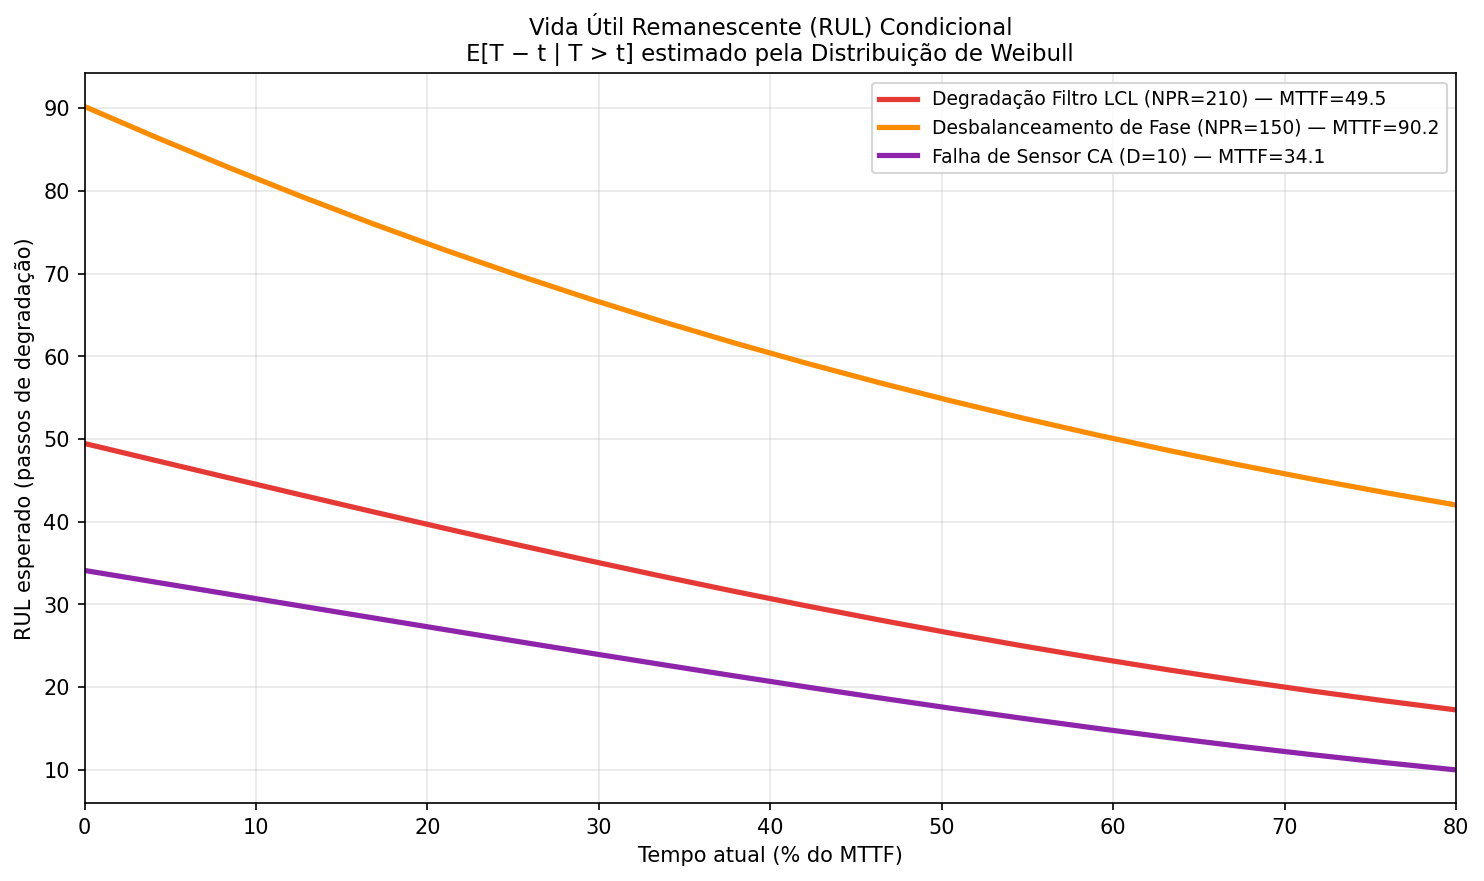
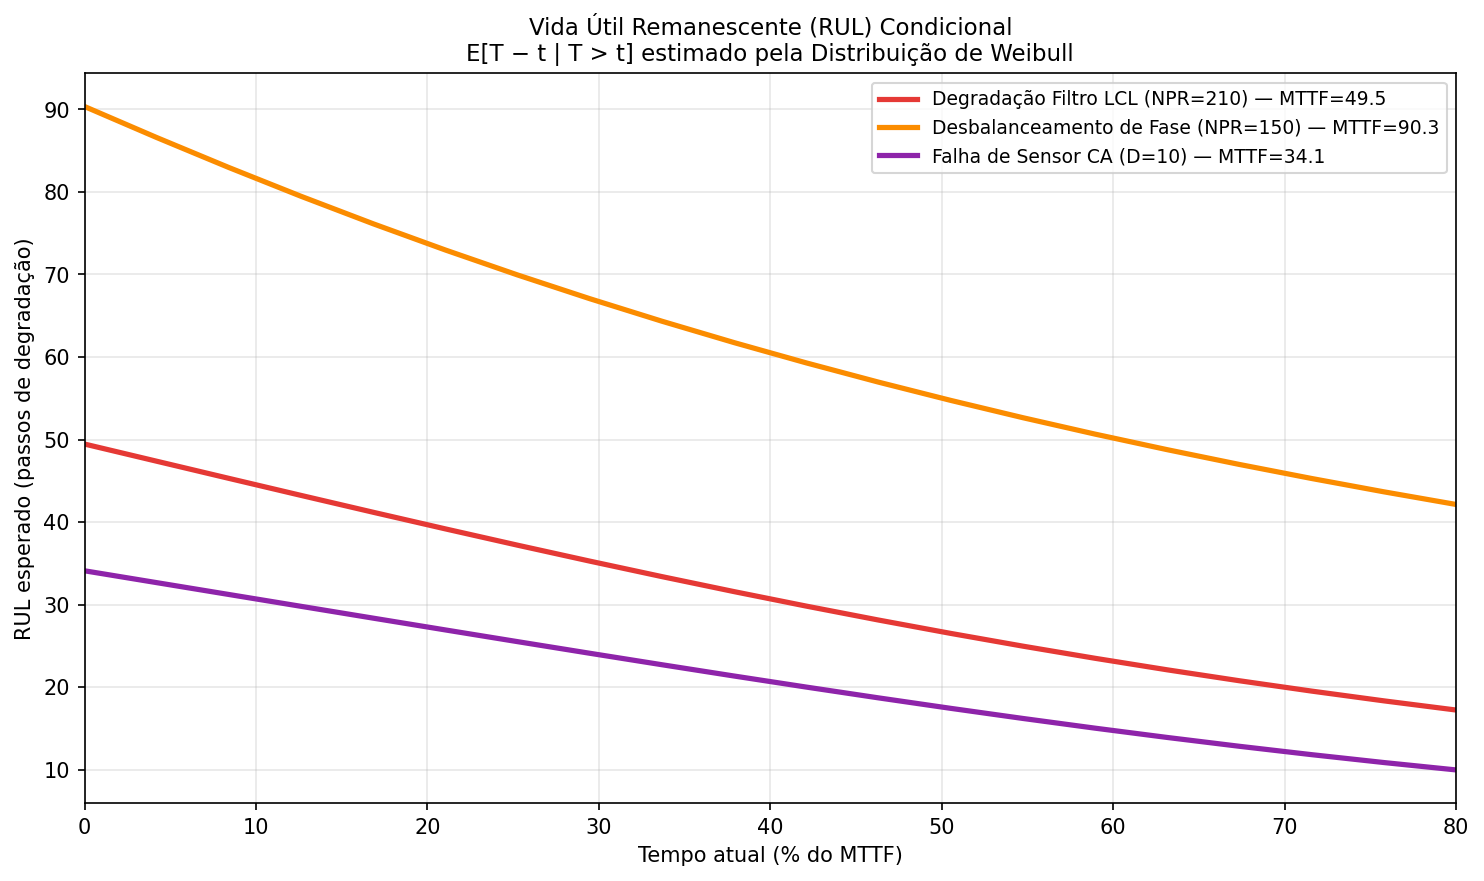
feat(ml): avaliacao em regime raro + ressalva honesta do Weibull (RUL)
(4/5 e 5/5 dos ajustes metodologicos)

Regime RARO — falhas CA sao eventos raros; teste 50/50 infla precision/F1.
Reprojeta precision/F1 para prevalencia realista (5%) por Bayes no ponto de
operacao (AUC/recall/specificity independem da prevalencia):
- validacao.py (pipeline AE): precision_raro/f1_raro por falha x severidade +
  nota no __meta__. Aqui FPR~0 (limiar p99) -> precisao se mantem (honesto).
- _metricas_anomalia (protocolos por artigo): onde FPR>0, a precisao COLAPSA
  no regime raro — Z-score 0.67->0.10, IForest 0.56->0.06, AE-LSTM 0.55->0.06.
  Esse e o quadro realista; AUC segue a metrica comparavel.

Weibull/RUL — reposicionado como ILUSTRACAO metodologica:
- __meta__ evidence E2: RUL duplamente sintetico (TTF de trajetorias SIMULADAS
  cruzando o limiar do AE; falha tambem sintetica). Nao e vida util de campo.
- ajuste_weibull_adequado por falha via KS (alpha=0.05): hoje KS REJEITA as 3
  (ks_pval<=0.0014) -> ressalva explicita de que MTTF/B10 sao indicativos.

Teste do regime raro (colapso com FPR>0; estavel com FPR=0). Suite 141/141.
Artefatos do AE e do nucleo (francisti/ibrahim/ahirwar) regenerados.

Changed region(s): [[0.031, 0.4904, 0.062, 0.521], [0.031, 0.2145, 0.062, 0.2452], [0.031, 0.1226, 0.062, 0.1532]]

diff --git a/src/ml/validacao.py b/src/ml/validacao.py
@@ -102,6 +102,12 @@ SEVS_VALIDACAO = [0.30, 0.50, 1.00]
 N_JANELAS_SAUDAVEL = 50
 N_JANELAS_FALHA    = 50
 
+# Prevalência REALISTA de falha em operação (falhas CA são eventos raros).
+# O teste é balanceado (50/50) para estimar TPR/FPR de forma estável, mas
+# precision/F1 a 50% NÃO refletem o campo. Reportamos também precision/F1 na
+# prevalência rara abaixo — recall (TPR), specificity e AUC independem dela.
+PREVALENCIA_RARA = 0.05
+
 
 # ============================================================
 # COLETA DE ERROS (saudável e falhas)
@@ -173,6 +179,19 @@ def metricas_no_limiar(erros_neg: np.ndarray,
 
     cm = confusion_matrix(y_true, y_pred)
 
+    # — Ponto de operação (limiar congelado): TPR/FPR independem da prevalência —
+    tpr_op = float((erros_pos > limiar).mean())   # = recall
+    fpr_op = float((erros_neg > limiar).mean())   # = 1 - specificity
+
+    # — Precision/F1 reprojetados para a prevalência RARA (operação real) —
+    # Bayes no ponto de operação: prec = π·TPR / (π·TPR + (1−π)·FPR).
+    # AUC e recall NÃO mudam; só precision/F1 (que dependem da base rate).
+    pi = PREVALENCIA_RARA
+    denom = pi * tpr_op + (1.0 - pi) * fpr_op
+    precision_raro = float(pi * tpr_op / denom) if denom > 0 else 0.0
+    f1_raro = (float(2 * precision_raro * tpr_op / (precision_raro + tpr_op))
+               if (precision_raro + tpr_op) > 0 else 0.0)
+
     return {
         "precision"  : float(precision_score(y_true, y_pred, zero_division=0)),
         "recall"     : float(recall_score(y_true, y_pred, zero_division=0)),
@@ -180,6 +199,12 @@ def metricas_no_limiar(erros_neg: np.ndarray,
         "accuracy"   : float(accuracy_score(y_true, y_pred)),
         "auc_roc"    : float(roc_auc),
         "auc_pr"     : float(pr_auc),
+        # Regime raro (prevalência realista de falha CA) — precision/F1 honestos:
+        "prevalencia_raro" : pi,
+        "tpr_op"           : tpr_op,
+        "fpr_op"           : fpr_op,
+        "precision_raro"   : precision_raro,
+        "f1_raro"          : f1_raro,
         "confusion"  : cm.tolist(),
         "fpr"        : fpr.tolist(),
         "tpr"        : tpr.tolist(),
@@ -446,6 +471,9 @@ def executar_validacao() -> bool:
                 "precision": res["precision"],
                 "accuracy" : res["accuracy"],
                 "auc_pr"   : res["auc_pr"],
+                # regime raro (prevalência realista)
+                "precision_raro": res["precision_raro"],
+                "f1_raro"       : res["f1_raro"],
             })
 
     # ── 5. Visualizações ─────────────────────────────────────
@@ -475,6 +503,16 @@ def executar_validacao() -> bool:
             "threshold_method": info_limiar.get("threshold_method", "p99"),
             "threshold_source": "congelado_do_limiar_json",
             "limiar_operacional": float(limiar),
+            "prevalencia_teste": 0.5,
+            "prevalencia_raro": PREVALENCIA_RARA,
+            "nota_regime_raro": (
+                "O teste é balanceado (50% falha) para estimar TPR/FPR com "
+                "estabilidade, mas falhas CA são RARAS em operação. Por isso "
+                "reportamos também precision_raro/f1_raro reprojetados para "
+                f"prevalência de {PREVALENCIA_RARA:.0%} (regra de Bayes no ponto "
+                "de operação). AUC, recall (TPR) e specificity independem da "
+                "prevalência; só precision/F1 mudam."
+            ),
         },
     }
     for chave, res in resultados.items():
@@ -489,13 +527,15 @@ def executar_validacao() -> bool:
     # ── 7. Resumo final ──────────────────────────────────────
     _log(f"\n{'='*60}")
     _log(f"  VALIDAÇÃO CONCLUÍDA!")
-    _log(f"\n  {'Falha':<30} {'Sev':>5} {'F1':>7} {'AUC':>7} {'Recall':>8}")
-    _log(f"  {'-'*60}")
+    _log(f"\n  {'Falha':<30} {'Sev':>5} {'AUC':>7} {'Recall':>8} "
+          f"{'F1@50%':>8} {'F1@5%':>8}")
+    _log(f"  {'-'*72}")
     for row in linhas_tabela:
-        npm_str = f"NPR={row['npr']}" if row["npr"] else "  D=10"
         _log(f"  {row['falha']:<30} {row['severidade']:>5.2f} "
-              f"{row['f1']:>7.3f} {row['auc_roc']:>7.3f} "
-              f"{row['recall']:>8.3f}")
+              f"{row['auc_roc']:>7.3f} {row['recall']:>8.3f} "
+              f"{row['f1']:>8.3f} {row['f1_raro']:>8.3f}")
+    _log("\n  AUC/Recall independem da prevalência; F1@50% é o teste balanceado "
+         f"e F1@{PREVALENCIA_RARA:.0%} reflete a raridade real das falhas CA.")
 
     # Melhor AUC geral
     melhor = max(linhas_tabela, key=lambda x: x["auc_roc"])

diff --git a/src/ml/rul_weibull.py b/src/ml/rul_weibull.py
@@ -496,6 +496,20 @@ def executar_rul_weibull() -> bool:
     # ── 6. Salva resultados ──────────────────────────────────
     arq_json = PASTA_AE / "weibull_results.json"
     relatorio = {
+        "__meta__": {
+            "evidence_level": "E2",
+            "evidence_note": (
+                "RUL ILUSTRATIVO — duplamente sintético: (1) os TTF vêm de "
+                "trajetórias de degradação SIMULADAS cruzando o limiar do "
+                "Autoencoder, não de dados run-to-failure reais; (2) a própria "
+                "falha que define o cruzamento é injeção sintética orientada "
+                "pelo FMEA. Demonstra a METODOLOGIA (TTF→Weibull→MTTF/B10/RUL), "
+                "NÃO é estimativa de vida útil de campo (exigiria histórico real "
+                "de falhas). Verificar a adequação do ajuste pelo teste KS abaixo."
+            ),
+            "ttf_origem": "trajetorias_simuladas_cruzando_limiar_AE",
+            "ks_alpha": 0.05,
+        },
         "parametros_simulacao": {
             "n_trajetorias": N_TRAJ,
             "n_steps"      : N_STEPS,
@@ -505,10 +519,18 @@ def executar_rul_weibull() -> bool:
     }
     for falha in FALHAS:
         fid = falha["id"]
+        ks_p = params[fid].get("ks_pval")
+        ajuste_ok = bool(ks_p is not None and ks_p > 0.05)
         relatorio["falhas"][fid] = {
             "nome"  : falha["nome"],
             "npr"   : falha["npr"],
             "weibull": params[fid],
+            "ajuste_weibull_adequado": ajuste_ok,
+            "ressalva_ajuste": (
+                "" if ajuste_ok else
+                "KS rejeita Weibull (p<=0,05): os TTF simulados não seguem bem "
+                "uma Weibull; MTTF/B10 são indicativos, não conclusivos."
+            ),
             "ttfs"  : ttfs_dict[fid].tolist(),
         }
     with open(arq_json, "w", encoding="utf-8") as f:

diff --git a/src/ml/experimentos_artigos.py b/src/ml/experimentos_artigos.py
@@ -1267,14 +1267,36 @@ def _metricas_anomalia(y_true, score, y_pred=None,
     metricas = _metricas_classificacao(y_true_arr, y_pred, y_score=score)
     if metricas.get("matriz_confusao") and len(metricas["matriz_confusao"]) == 2:
         metricas["classes"] = ["Normal", "Anomalia"]
+
+    # Regime RARO: precision/F1 reprojetados p/ a prevalência realista de falha
+    # CA (eventos raros). O teste é ~50/50 para estimar TPR/FPR; precision/F1 a
+    # 50% inflam. Regra de Bayes no ponto de operação: AUC/recall/specificity
+    # NÃO mudam; precision/F1 sim. Revela o custo de FPR>0 em operação real.
+    y_pred_arr = np.asarray(y_pred).astype(int)
+    tp = int(np.sum((y_true_arr == 1) & (y_pred_arr == 1)))
+    fn = int(np.sum((y_true_arr == 1) & (y_pred_arr == 0)))
+    fp = int(np.sum((y_true_arr == 0) & (y_pred_arr == 1)))
+    tn = int(np.sum((y_true_arr == 0) & (y_pred_arr == 0)))
+    tpr_op = tp / (tp + fn) if (tp + fn) else 0.0
+    fpr_op = fp / (fp + tn) if (fp + tn) else 0.0
+    pi = 0.05
+    denom = pi * tpr_op + (1.0 - pi) * fpr_op
+    prec_raro = (pi * tpr_op / denom) if denom > 0 else 0.0
+    f1_raro = (2 * prec_raro * tpr_op / (prec_raro + tpr_op)
+               if (prec_raro + tpr_op) > 0 else 0.0)
+
     metricas.update({
         "limiar_score": thr,
         "ponto_operacao": ponto,
         "threshold_source": threshold_source,
         "metrica_dependente_de_limiar": dependencia,
-        "anomalias_detectadas": int(np.sum(y_pred == 1)),
+        "anomalias_detectadas": int(np.sum(y_pred_arr == 1)),
         "anomalias_reais": int(np.sum(y_true_arr == 1)),
-        "taxa_anomalias_detectadas": float(np.mean(y_pred == 1)),
+        "taxa_anomalias_detectadas": float(np.mean(y_pred_arr == 1)),
+        "prevalencia_raro": pi,
+        "fpr_operacao": float(fpr_op),
+        "precision_raro": float(prec_raro),
+        "f1_raro": float(f1_raro),
     })
     return metricas
 

diff --git a/tests/test_protocolos_artigos.py b/tests/test_protocolos_artigos.py
@@ -228,6 +228,30 @@ def test_metricas_anomalia_caminhos():
     assert m3["ponto_operacao"] == "protocolo_do_artigo"
 
 
+def test_metricas_regime_raro_colapsa_precision_com_fpr():
+    """Regime raro (prevalência 5%): precisão cai quando há FPR>0; e o recall
+    (TPR) e a marcação independem da prevalência. Detector com FPR=0 mantém
+    precisão alta a qualquer prevalência."""
+    from src.ml.experimentos_artigos import _metricas_anomalia
+
+    # 10 normais, 10 anomalias; y_pred com 8 TP, 2 FN, 3 FP, 7 TN -> FPR=0.3
+    y = [1]*10 + [0]*10
+    yp = [1]*8 + [0]*2 + [1]*3 + [0]*7
+    s = [0.9]*10 + [0.1]*10
+    m = _metricas_anomalia(y, s, y_pred=yp, threshold_source="x", limiar=0.5)
+    assert m["prevalencia_raro"] == 0.05
+    assert m["fpr_operacao"] == pytest.approx(0.3)
+    # a 50% precision ~ 8/11=0.73; a 5% deve ser MUITO menor (FPR alto)
+    assert m["precision_raro"] < m["precision"]
+    assert m["precision_raro"] < 0.2
+
+    # FPR=0 -> precision_raro permanece 1.0 (independe da prevalência)
+    yp0 = [1]*8 + [0]*2 + [0]*10  # 0 FP
+    m0 = _metricas_anomalia(y, s, y_pred=yp0, threshold_source="x", limiar=0.5)
+    assert m0["fpr_operacao"] == pytest.approx(0.0)
+    assert m0["precision_raro"] == pytest.approx(1.0)
+
+
 # ── voto majoritário do Ahirwar ──────────────────────────────────────────────
 
 def test_ahirwar_voto_majoritario(features_fake, monkeypatch):
